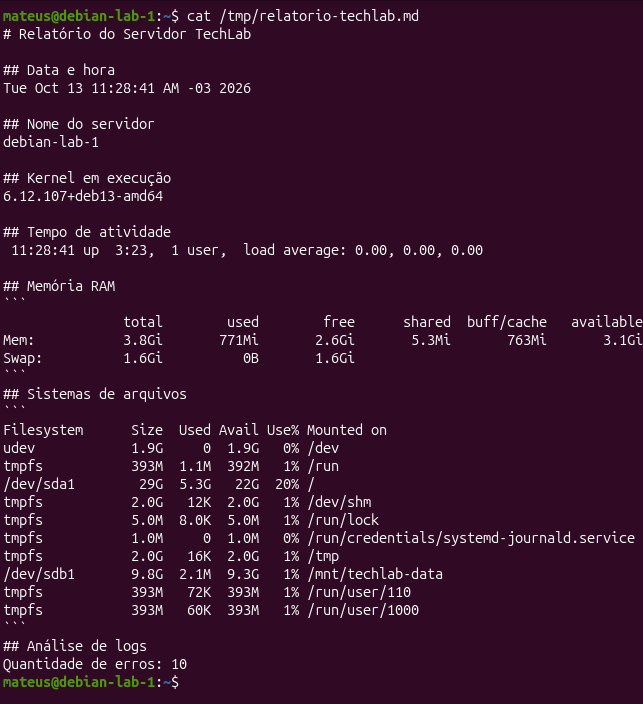
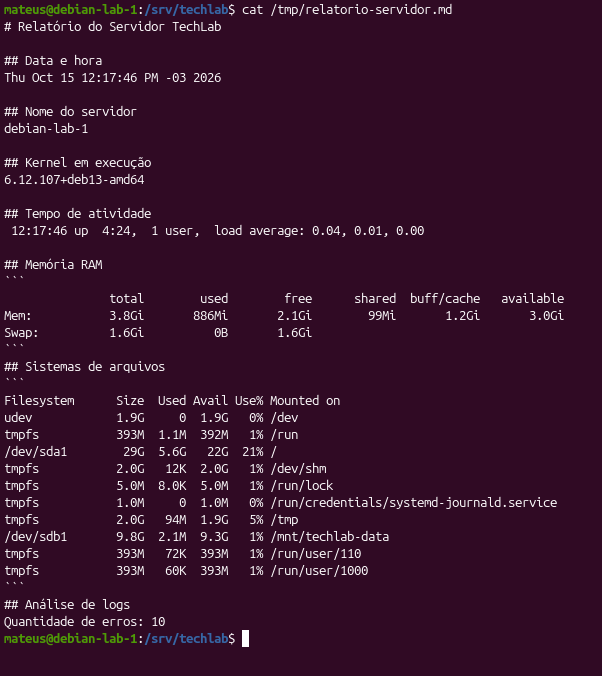
Corrigindo a parte 11 do projeto

diff --git a/11-shell-script.md b/11-shell-script.md
@@ -2,74 +2,92 @@
 
 ## 1. Objetivo
 
-Desenvolver um script Bash capaz de coletar automaticamente informações do servidor Debian e gerar um relatório em formato Markdown.
+Desenvolver e executar um script Bash capaz de coletar informações do servidor TechLab e gerar automaticamente um relatório em formato Markdown.
 
-A atividade tem como objetivo praticar:
+A atividade tem como objetivo praticar conceitos de administração GNU/Linux, incluindo:
 
-- Comandos de administração GNU/Linux;
+- Utilização de comandos administrativos;
+- Criação e execução de scripts Shell;
 - Variáveis e substituição de comandos;
 - Estruturas condicionais `if/else`;
 - Redirecionamento de saída;
 - Leitura e análise de arquivos de log;
-- Automação de tarefas administrativas.
+- Validação dos resultados obtidos.
 
 ## 2. Ambiente utilizado
 
 | Item | Descrição |
 |---|---|
 | Sistema operacional | Debian GNU/Linux 13 |
-| Servidor | debian-lab-1 |
+| Servidor | `debian-lab-1` |
 | Interpretador | Bash |
 | Editor de texto | Vim |
-| Script | `/srv/techlab/scripts/relatorio-servidor.sh` |
-| Relatório gerado | `/tmp/relatorio-techlab.md` |
+| Script desenvolvido | `/srv/techlab/scripts/relatorio-servidor.sh` |
+| Relatório gerado | `/tmp/relatorio-servidor.md` |
 | Arquivo de log | `/srv/techlab/acessos.log` |
 
 ## 3. Desenvolvimento do script
 
-Foi desenvolvido um script para coletar as seguintes informações:
+Foi desenvolvido o script `relatorio-servidor.sh` para automatizar a coleta de informações do servidor.
+
+O relatório reúne:
 
 - Data e hora da execução;
 - Nome do servidor;
 - Versão do kernel;
 - Tempo de atividade;
 - Utilização da memória RAM;
-- Utilização dos sistemas de arquivos;
-- Quantidade de registros de erro no arquivo de log.
+- Espaço utilizado e disponível nos sistemas de arquivos;
+- Quantidade de registros de erro presentes no arquivo de log.
 
-O script utiliza uma estrutura condicional para verificar a existência do arquivo `acessos.log` antes de realizar a contagem dos erros.
+O script utiliza comandos como `hostname`, `uname`, `uptime`, `free`, `df` e `grep`.
 
-As informações coletadas são organizadas em seções Markdown e gravadas automaticamente em um arquivo de relatório.
+Também utiliza uma estrutura condicional `if/else` para verificar a existência do arquivo `acessos.log` antes de realizar a contagem de erros.
 
-### Evidência 01 — Código-fonte
+As informações coletadas são organizadas em seções Markdown e gravadas automaticamente no arquivo `/tmp/relatorio-servidor.md`.
 
-A imagem apresenta o script desenvolvido no editor Vim, incluindo os comandos utilizados, a estrutura condicional e o redirecionamento da saída.
+### Evidência 01 — Código-fonte do script
 
-![Código do script Bash](img/11-img-01.png)
+O código-fonte atualizado demonstra os comandos utilizados, a estrutura condicional e o redirecionamento responsável pela criação do relatório.
+
+![Código-fonte atualizado do script](img/11-img-01.png)
 
 ## 4. Validação e execução
 
-Inicialmente, foi realizada a verificação sintática do script:
+Antes da execução, o script deve ser submetido a uma verificação de sintaxe:
 
 ```bash
 bash -n /srv/techlab/scripts/relatorio-servidor.sh
+echo $?
 ```
 
-Em seguida, o script foi executado:
+O comando `bash -n` verifica a sintaxe do script sem executar suas instruções.
+
+O comando `echo $?` permite consultar o código de saída da verificação.
+
+Em seguida, o script é executado:
 
 ```bash
 bash /srv/techlab/scripts/relatorio-servidor.sh
 ```
 
-Para verificar a existência do relatório gerado:
+Para verificar a existência do relatório:
 
 ```bash
-ls -lh /tmp/relatorio-techlab.md
+ls -lh /tmp/relatorio-servidor.md
 ```
 
-### Evidência 02 — Validação e execução
+Durante os testes realizados, o script informou:
 
-A imagem demonstra os comandos utilizados para validar e executar o script, além de verificar a criação do arquivo Markdown.
+```text
+Relatório gerado em /tmp/relatorio-servidor.md
+```
+
+O arquivo foi encontrado no diretório `/tmp`, confirmando sua criação.
+
+### Evidência 02 — Verificação de sintaxe e execução
+
+Esta evidência deverá apresentar os comandos de validação, a execução do script e a confirmação da existência do arquivo gerado.
 
 ![Validação e execução do script](img/11-img-02.png)
 
@@ -78,61 +96,160 @@ A imagem demonstra os comandos utilizados para validar e executar o script, alé
 Após a execução, o relatório foi consultado utilizando:
 
 ```bash
-cat /tmp/relatorio-techlab.md
+cat /tmp/relatorio-servidor.md
 ```
 
-O arquivo apresentou as informações do servidor, incluindo:
+O arquivo apresentou informações sobre o servidor, incluindo:
 
 - Hostname: `debian-lab-1`;
 - Kernel: `6.12.107+deb13-amd64`;
 - Memória RAM total: aproximadamente 3,8 GiB;
-- Partições e pontos de montagem;
+- Utilização dos sistemas de arquivos;
+- Tempo de atividade;
 - Quantidade de erros identificados: **10**.
 
-### Evidência 03 — Relatório gerado
+O relatório foi gerado em formato Markdown, permitindo a leitura e a organização das informações coletadas.
 
-A imagem demonstra o conteúdo do relatório Markdown, incluindo as informações de hardware, sistema operacional e análise de logs.
+### Evidência 03 — Conteúdo do relatório
 
-![Relatório Markdown gerado](img/11-img-03.png)
+Esta evidência deverá apresentar o conteúdo do arquivo `/tmp/relatorio-servidor.md`, incluindo as informações do sistema e a análise de logs.
+
+![Conteúdo do relatório gerado](img/11-img-03.png)
 
 ## 6. Verificação dos registros de erro
 
-Para conferir a quantidade de erros presente no arquivo de log, foi utilizado:
+Para verificar a quantidade de registros de erro presentes no arquivo de log, foi utilizado:
 
 ```bash
-grep -c 'ERRO$' /srv/techlab/acessos.log
+grep -c 'ERRO' /srv/techlab/acessos.log
 ```
 
-Para consultar a quantidade registrada no relatório:
+O comando retornou:
+
+```text
+10
+```
+
+Em seguida, foi consultada a quantidade registrada no relatório:
 
 ```bash
-grep 'Quantidade de erros:' /tmp/relatorio-techlab.md
+grep 'Quantidade de erros' /tmp/relatorio-servidor.md
 ```
 
-Os resultados apresentaram a mesma quantidade: **10 erros**.
+O resultado foi:
 
-### Evidência 04 — Conferência dos registros
+```text
+Quantidade de erros: 10
+```
 
-A imagem apresenta a comparação entre a contagem realizada diretamente no arquivo de log e a informação gerada pelo script.
+A comparação demonstrou que o relatório apresentou a mesma quantidade de registros identificada diretamente no arquivo de log.
 
-![Verificação dos registros de erro](img/11-img-04.png)
+É importante observar que `grep -c` conta as linhas que contêm o padrão pesquisado.
 
-## 7. Conhecimentos adquiridos
+### Evidência 04 — Comparação da contagem de erros
 
-Durante o desenvolvimento desta atividade, foram praticados conceitos importantes de Shell Script:
+Esta evidência deverá apresentar a contagem realizada diretamente em `acessos.log` e a quantidade registrada no relatório.
 
-- **`echo`:** exibição de mensagens e formatação do relatório;
-- **`$(...)`:** captura da saída de comandos em variáveis;
-- **`if/else`:** execução condicional;
-- **`grep -c`:** contagem de registros;
-- **`>`:** redirecionamento e sobrescrita de arquivos;
-- **`bash -n`:** verificação sintática do script;
-- **Markdown:** organização e apresentação das informações coletadas.
+![Comparação dos registros de erro](img/11-img-04.png)
 
-## 8. Conclusão
+## 7. Teste de ausência do arquivo de log
 
-A atividade demonstrou como utilizar Shell Script para automatizar tarefas de administração de sistemas GNU/Linux.
+Para verificar o comportamento do script quando o arquivo `acessos.log` não está disponível, foi realizado um teste controlado.
 
-O script desenvolvido reúne informações relevantes do servidor em um único relatório, reduzindo a necessidade de executar manualmente cada comando.
+Inicialmente, o arquivo original foi renomeado temporariamente:
 
-A geração do arquivo Markdown também permite registrar e consultar os resultados das verificações realizadas no ambiente TechLab.
+```bash
+sudo mv /srv/techlab/acessos.log /srv/techlab/acessos.log.teste
+```
+
+Em seguida, o script foi executado novamente:
+
+```bash
+bash /srv/techlab/scripts/relatorio-servidor.sh
+```
+
+Para consultar a seção de análise de logs:
+
+```bash
+grep -A 2 'Análise de logs' /tmp/relatorio-servidor.md
+```
+
+O relatório apresentou:
+
+```text
+## Análise de logs
+Arquivo de log não encontrado!
+```
+
+Esse resultado demonstrou que o script identificou a ausência do arquivo e executou o bloco `else`, apresentando uma mensagem adequada.
+
+### Evidência 05 — Tratamento de log inexistente
+
+Esta evidência deverá apresentar a execução do script com o arquivo de log temporariamente indisponível e a mensagem registrada no relatório.
+
+![Tratamento da ausência do arquivo de log](img/11-img-05.png)
+
+## 8. Restauração do arquivo de log
+
+Após o teste, o arquivo original foi restaurado:
+
+```bash
+sudo mv /srv/techlab/acessos.log.teste /srv/techlab/acessos.log
+```
+
+Sua existência foi confirmada utilizando:
+
+```bash
+ls -lh /srv/techlab/acessos.log
+```
+
+Em seguida, o relatório foi gerado novamente:
+
+```bash
+bash /srv/techlab/scripts/relatorio-servidor.sh
+```
+
+Para confirmar o resultado:
+
+```bash
+grep 'Quantidade de erros' /tmp/relatorio-servidor.md
+```
+
+O comando apresentou:
+
+```text
+Quantidade de erros: 10
+```
+
+Dessa forma, foi confirmado que o arquivo original estava novamente disponível e que o relatório voltou a apresentar a contagem esperada.
+
+### Evidência 06 — Restauração do log e relatório definitivo
+
+Esta evidência deverá demonstrar a restauração do arquivo `acessos.log`, a nova execução do script e a contagem de 10 erros.
+
+![Restauração do log e validação final](img/11-img-06.png)
+
+## 9. Conhecimentos adquiridos
+
+Durante o desenvolvimento desta atividade, foram praticados conceitos importantes de Shell Script e administração GNU/Linux:
+
+- `echo`: exibição de mensagens e formatação do relatório;
+- `$(...)`: captura da saída de comandos;
+- `if/else`: execução condicional;
+- `grep -c`: contagem de linhas que contêm determinado padrão;
+- `>`: redirecionamento e sobrescrita da saída;
+- `bash -n`: verificação da sintaxe do script;
+- `chmod`: gerenciamento de permissões de arquivos;
+- Markdown: organização das informações em um documento estruturado.
+
+Também compreendi a importância de validar os resultados produzidos por scripts automatizados e de tratar situações em que arquivos necessários não estão disponíveis.
+
+## 10. Conclusão
+
+A atividade demonstrou como utilizar Shell Script para automatizar a coleta de informações de um servidor Debian GNU/Linux.
+
+O script desenvolvido permitiu reunir informações do sistema em um relatório Markdown, além de realizar a contagem de registros de erro.
+
+Os testes confirmaram a criação do relatório, a identificação de 10 registros de erro e o tratamento da ausência do arquivo `acessos.log`.
+
+A atividade contribuiu para o desenvolvimento de conhecimentos sobre automação, análise de logs, estruturas condicionais e validação de scripts administrativos.
